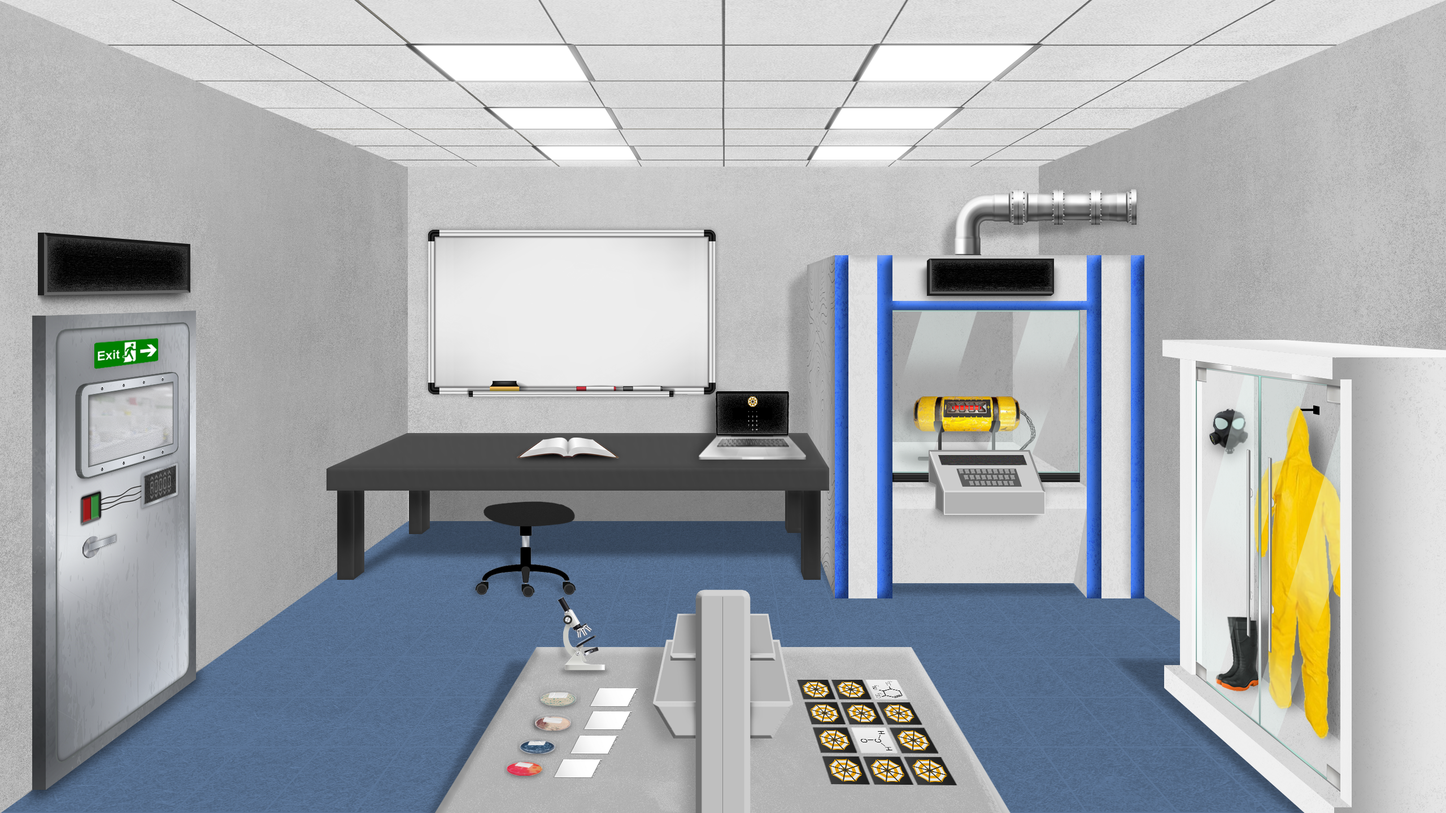
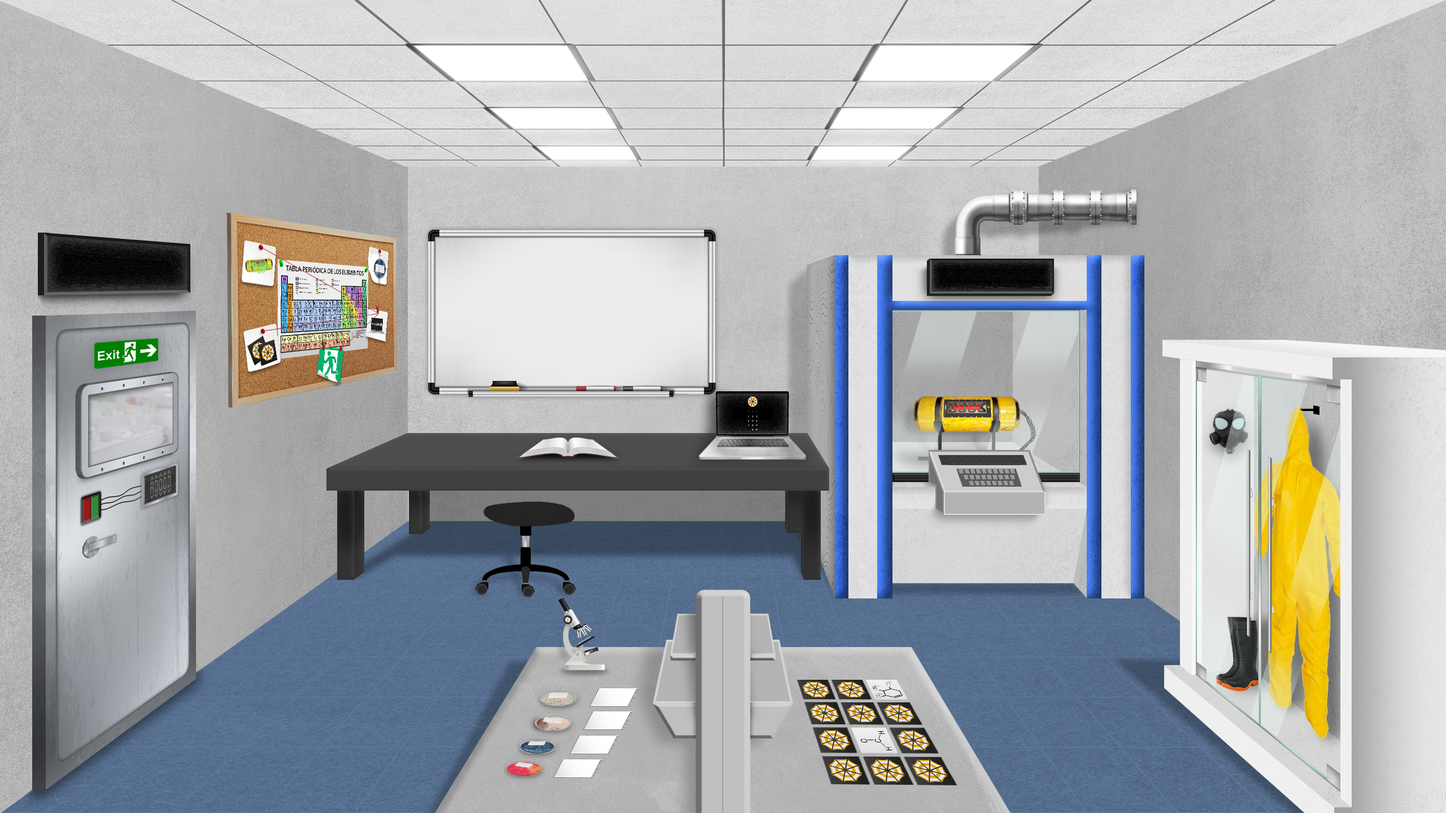
Pista "corcho" creada y terminada.

Changed region(s): [[0.1562, 0.25, 0.2812, 0.5]]

diff --git a/resources/css/app.scss b/resources/css/app.scss
@@ -52,6 +52,28 @@ body {
     min-height: 100vh;
 }
 
+// ------ CORCHO ------
+.corcho {
+    width: 100%;
+    height: 100vh;
+    background-image: url("@/src/img/corcho/bg.png");
+    background-size: cover;
+    background-repeat: no-repeat;
+
+    a {
+        position: absolute;
+        top: 2vh;
+        right: 2vh;
+        font-size: 6vh;
+        opacity: 0.5;
+        transition: all 0.3s ease-in-out;
+
+        &:hover {
+            opacity: 1;
+        }
+    }
+}
+
 // ------ LABORATORIO ------
 #lab {
     background: url("@/src/img/lab/lab.png");
@@ -156,6 +178,12 @@ body {
         flex-direction: column;
         align-items: flex-start;
         padding: 0.5% 1%;
+    }
+
+    // ------ CORCHO ------
+    #corcho {
+        inset: 26% 72.5% 49.7% 15.7%;
+        clip-path: polygon(0 0, 100% 13%, 100% 82%, 0 100%);
     }
 
     // ------ CADA OVEJA CON SU PAREJA ------

diff --git a/resources/js/lab.js b/resources/js/lab.js
@@ -201,7 +201,8 @@ const changeEnviroment = () => {
         if (localStorage.getItem("tiempo")) {
             countDownDate = localStorage.getItem("tiempo");
         } else {
-            countDownDate = Date.now() + 3600000;
+            countDownDate = Date.now() + localStorage.getItem("dificultad");
+            localStorage.removeItem("dificultad"); S
             localStorage.setItem("tiempo", countDownDate);
         }
 
@@ -238,8 +239,9 @@ const changeEnviroment = () => {
             }
 
             if (distance < 0) {
+                generalCounter.innerHTML = "00:00:00";
                 clearInterval(x);
-                localStorage.removeItem("counter");
+                localStorage.clear();
             }
         }, 1000);
     }

diff --git a/routes/web.php b/routes/web.php
@@ -73,6 +73,10 @@ Route::get('/jugar/lab', [GameController::class, 'lab'])
     ->name('laboratorio.index')
     ->middleware('logged');
 
+Route::get('/jugar/corcho', [GameController::class, 'corcho'])
+    ->name('corcho.index')
+    ->middleware('logged');
+
 Route::get('/jugar/hangman', [GameController::class, 'hangman'])
     ->name('prueba.hangman')
     ->middleware('logged');
@@ -92,6 +96,7 @@ Route::get('/jugar/oveja', [GameController::class, 'oveja'])
 Route::get('/jugar/password', [GameController::class, 'password'])
     ->name('prueba.password')
     ->middleware('logged');
+
 // menús
 Route::get('/sobre-nosotros', [SobreNosotrosController::class, 'index'])
     ->name('sobre-nosotros.index');

diff --git a/app/Http/Controllers/GameController.php b/app/Http/Controllers/GameController.php
@@ -18,6 +18,12 @@ class GameController extends Controller
         return view('laboratorio.index');
     }
 
+    // corcho
+    public function corcho()
+    {
+        return view('corcho.index');
+    }
+
     // prueba 5: agrupando
     public function agrupando()
     {

diff --git a/resources/views/corcho/index.blade.php b/resources/views/corcho/index.blade.php
@@ -1,0 +1,10 @@
+@extends('layouts.master')
+
+@section('vitejs')
+@endsection
+
+@section('content')
+    <div class="corcho">
+        <a href="{{ route('laboratorio.index') }}"><i class="fa-solid fa-xmark"></i></a>
+    </div>
+@endsection

diff --git a/resources/views/laboratorio/index.blade.php b/resources/views/laboratorio/index.blade.php
@@ -37,5 +37,6 @@
 
         {{-- HINTS --}}
         <div id="pizarra"></div>
+        <a href="{{ route('corcho.index') }}" id="corcho"></a>
     </div>
 @endsection
